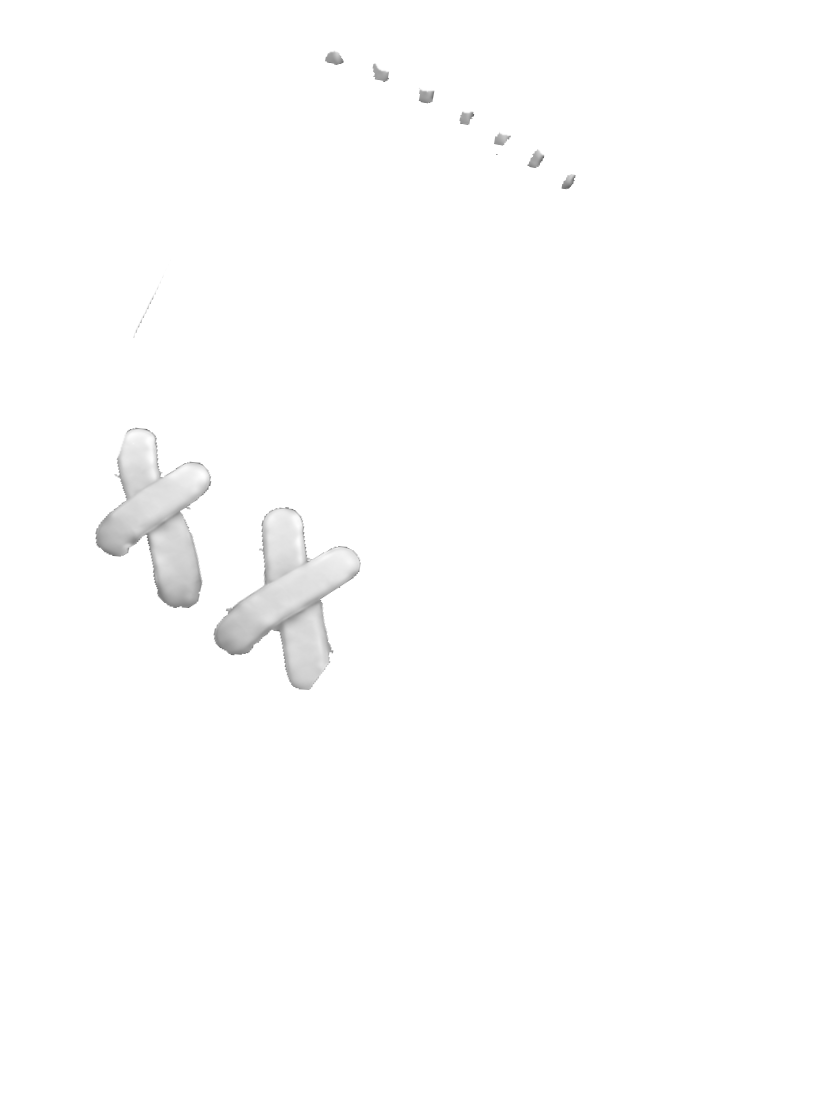
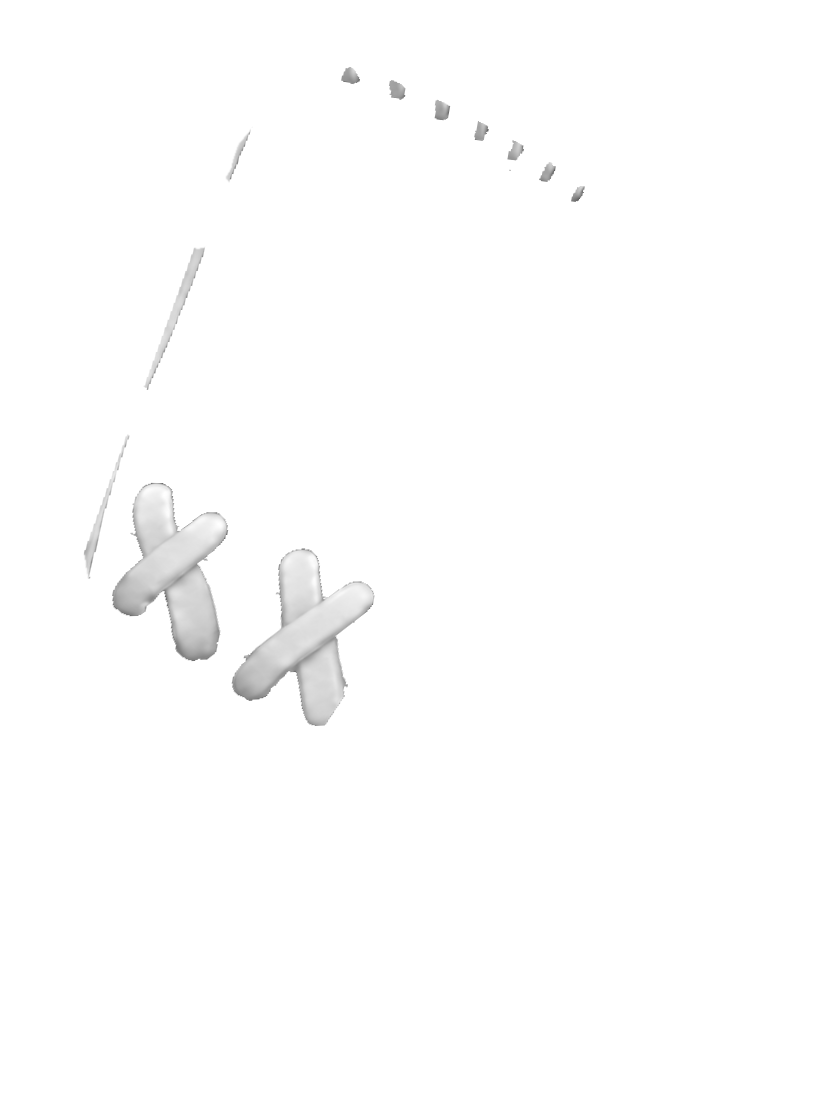
Thumb-side webs sit in their place, without the H-web's leftovers
Scott: Em Rocket and Standard I did not sit right from the thumb side.

- The mapping was fitted on the H-web's outline, which leaves out its open
  bays, a different bay on each side: every web came out shifted toward
  the index finger, cut off there and short of the thumb. It is now fitted
  on the web's whole place, windows and bays closed (overlap 0.68 -> 0.88).
- The H-web's strap ends through the thumb panel no longer float on other
  webs: they are left out and the panel is whole under them.
- The index finger's strip beside the web is one even band instead of the
  pieces the H-web's straps left of it.

Claude-Session: https://claude.ai/code/session_01LrwdtXa84bx1vtPD2tbGHV

diff --git a/glove_builder/customiser/glove-engine.js b/glove_builder/customiser/glove-engine.js
@@ -347,7 +347,7 @@ export function renderAssets(DATA, baseOnly = false) {
 function selectionAssets(DATA, web, snake, palmManifest) {
   const palm = palmManifest?.entries?.[web];
   return assetDependencies(DATA, [DATA.webs?.[web], DATA.webs?.[web] ? DATA.nativeBackTrace?.swapAssets : null,
-    DATA.thumbWebEstimates?.entries?.[web], ...(palm
+    DATA.thumbWebEstimates?.entries?.[web], DATA.thumbWebEstimates?.entries?.[web] ? DATA.thumbWebEstimates.hWebTies : null, ...(palm
     ? [palm, palmManifest.footprint, palmManifest.protected] : [])], snake ? ['_snakeLeather'] : []);
 }
 // Build-time hashes change cache keys without changing metadata or image bytes.
@@ -882,7 +882,8 @@ export class GloveRenderer {
   webEstimate() {
     const D = this.DATA, entry = D.webBlank && this.web ? D.thumbWebEstimates?.entries?.[this.web] : null;
     if (!entry || !entry.leather) return null;
-    return Object.values(entry).every(id => this.imgs[id] && D.bbox[id]) ? entry : null;
+    const ties = D.thumbWebEstimates.hWebTies;
+    return [...Object.values(entry), ties.mask, ...Object.values(ties.heal)].every(id => this.imgs[id] && D.bbox[id]) ? entry : null;
   }
 
   // A layer without what lies inside a mask. Kept per layer and mask.
@@ -1043,7 +1044,7 @@ export class GloveRenderer {
       }
       const tex=this.leatherGrain(snake,zone?.group==='lace');
       const lace=zone?.group==='lace';
-      const tracedLeather=!!this.DATA.tracedSeams && zone?.group==='leather' && role!=='lining' && id===role;
+      const tracedLeather=!!this.DATA.tracedSeams && zone?.group==='leather' && role!=='lining' && (id===role || id.startsWith('thumb_estimate_heal_'));
       const strength=snake?17:(tracedLeather && !response?.grainStrength ? TRACED_LEATHER_GRAIN
         : response?.grainStrength ?? (lace?2.2:8.5));
       // The material coordinates are separable: wrap each row/column once,
@@ -1814,6 +1815,12 @@ export class GloveRenderer {
       // lacing and thread that belong to the web go with it
       // with an estimated web the lacing that ties a web in stays; the H-web's own thread does not
       if (D.webBlank && (z.id === 'stitching' || z.id === 'laces' && !this.webEstimate())) tinted = this.outside(tinted, D.webBlank.reach);
+      // the H-web's strap ends through the thumb panel go too, and the panel is whole under them
+      else if (D.webBlank && z.id === 'laces') {
+        const ties = D.thumbWebEstimates.hWebTies;
+        tinted = this.outside(tinted, this.imgs[ties.mask]);
+        for (const [zone, id] of Object.entries(ties.heal)) { const heal = this.tinted(id, this.hex(zone, state), zone, zone); ctx.drawImage(heal, heal._ox, heal._oy); }
+      }
       let c = onPad(swap && z.id === 'stitching' ? this.outsideWeb(tinted) : tinted, z.id);
       if (z.id === 'stitching' && D.thumbBadgeThread) {
         const original=c;c=document.createElement('canvas');c.width=original.width;c.height=original.height;
@@ -2156,6 +2163,7 @@ export class GloveRenderer {
       let c = this.tinted(mirror && highlight.id==='embroidery' && D.embroideryLHT ? D.embroideryLHT : highlight.id, '#ffffff',highlight.id);
       // the web's own lacing and thread are not on this side to light up
       if (D.webBlank && (highlight.id === 'stitching' || highlight.id === 'laces' && !this.webEstimate())) c = this.outside(c, D.webBlank.reach);
+      else if (D.webBlank && highlight.id === 'laces') c = this.outside(c, this.imgs[D.thumbWebEstimates.hWebTies.mask]);
       // Selection must cover restored leather under the original lettering,
       // while the relocated embroidered artwork keeps its own ownership.
       if(mirror && D.leftyRingHeals?.[highlight.id]){
@@ -2598,20 +2606,23 @@ export class GloveRenderer {
         if (!reach) { reach = D.webBlank.reach.getContext('2d').getImageData(0, 0, D.w, D.h).data; this.cache.set('hit|web-reach', reach); }
         if (reach[at * 4 + 3] >= 128) open = true;
       }
+      const covers = id => {
+        const key = 'hit|' + id;
+        let cover = this.cache.get(key);
+        if (!cover) {
+          const c = document.createElement('canvas'); c.width = D.w; c.height = D.h;
+          const g = c.getContext('2d', { willReadFrequently: true }); g.drawImage(this.imgs[id], 0, 0);
+          const px = g.getImageData(0, 0, D.w, D.h).data; cover = new Uint8Array(D.w * D.h);
+          for (let i = 0; i < cover.length; i++) cover[i] = px[i * 4 + 3];
+          this.cache.set(key, cover);
+        }
+        return cover[at] >= 128;
+      };
+      if (id === 'laces' && this.webEstimate()) for (const [zone, heal] of Object.entries(D.thumbWebEstimates.hWebTies.heal)) if (covers(heal)) return zone;
       if (open) {
         const estimate = this.webEstimate();
         if (estimate) for (const [part, zone] of ESTIMATE_PARTS) {
-          if (!estimate[part]) continue;
-          const key = 'hit|' + estimate[part];
-          let cover = this.cache.get(key);
-          if (!cover) {
-            const c = document.createElement('canvas'); c.width = D.w; c.height = D.h;
-            const g = c.getContext('2d', { willReadFrequently: true }); g.drawImage(this.imgs[estimate[part]], 0, 0);
-            const px = g.getImageData(0, 0, D.w, D.h).data; cover = new Uint8Array(D.w * D.h);
-            for (let i = 0; i < cover.length; i++) cover[i] = px[i * 4 + 3];
-            this.cache.set(key, cover);
-          }
-          if (cover[at] >= 128) return zone;
+          if (estimate[part] && covers(estimate[part])) return zone;
         }
         return null;
       }

diff --git a/scripts/derive_thumb_web_estimates.py b/scripts/derive_thumb_web_estimates.py
@@ -7,8 +7,8 @@ face: the same straps, lacing and thread, mirrored.
 
 So each web's palm layers are carried over to the thumb side by one plane
 mapping. The mapping is fitted once, on the web that exists on both sides:
-it lays the traced palm H-web, windows closed, over the traced thumb H-web
-as well as a plane can. Leather the palm side could not see (it tucks behind
+it lays the place the traced H-web has on the palm side (windows and bays
+closed) over the place it has on the thumb side, as well as a plane can. Leather the palm side could not see (it tucks behind
 the thumb there) is carried on from the leather beside it, so the web meets
 the thumb; a real window stays a window. Everything is cut to the place the
 traced H-web has on the thumb side, and the engine draws it behind the
@@ -30,6 +30,10 @@ from PIL import Image
 ROOT = Path(__file__).resolve().parents[1]; APP = ROOT / 'glove_builder/customiser'
 OUT = APP / 'assets/thumb-web-estimate-r01'; REVISION = 'THUMB-WEB-ESTIMATE-R01'
 ROLES = ['leather', 'laces', 'stitching']
+TIE_AREA = 4500      # a lace piece smaller than this, beside the web, is a strap end of the H-web
+# How wide a notch the H-web may have cut in a panel and still be closed, and
+# the panel that shows only as a strip along the outline (the index finger's side).
+PANEL_REACH, STRIPS = 85, {'back3'}
 # the four H-web windows, palm side -> thumb side (window centres), to start the fit from
 START = ([[585, 330], [630, 579], [427, 417], [496, 672]], [[312, 286], [216, 497], [458, 366], [345, 576]])
 
@@ -63,9 +67,17 @@ def filled(mask):
     out = np.zeros_like(mask); cv2.drawContours(out, contours, -1, 1, -1); return out
 
 
-def fit(palm_web, thumb_web, size):
-    """Plane mapping that lays the palm web's outline over the thumb web's."""
-    source, target = filled(palm_web), filled(thumb_web) > 0
+def place_of(full, web):
+    """The place a web has on a side: the traced H-web with its windows and bays, as one shape."""
+    space = web.copy()
+    for window in windows(full, web): space[window] = 1
+    # the H-web's strap ends make steps along its free edge; another web has none
+    return cv2.morphologyEx(filled(space), cv2.MORPH_CLOSE, cv2.getStructuringElement(cv2.MORPH_ELLIPSE, (45, 45)))
+
+
+def fit(source, target, size):
+    """Plane mapping that lays the web's place on the palm side over its place on the thumb side."""
+    target = target > 0
     def miss(h):
         w = cv2.warpPerspective(source * 255, np.append(h, 1).reshape(3, 3), size, flags=cv2.INTER_LINEAR) > 127
         return 1 - (w & target).sum() / max(1, (w | target).sum())
@@ -101,16 +113,11 @@ def main():
     stored = thumb.get('thumbWebEstimates') or {}
     if args.fit or not stored.get('mapping'):
         if args.check: sys.exit('stale: no stored mapping')
-        mapping, overlap = fit(palm_web, thumb_web, size)
+        mapping, overlap = fit(place_of(palm_full, palm_web), place_of(thumb_full, thumb_web), size)
     else: mapping, overlap = stored['mapping'], stored.get('outlineOverlap')
     H = np.append(np.array(mapping, np.float64), 1).reshape(3, 3)
 
-    # the place a web has on the thumb side: the traced web with its windows and bays
-    space = thumb_web.copy()
-    for window in windows(thumb_full, thumb_web): space[window] = 1
-    place = filled(space)
-    # the H-web's strap ends make steps along its free edge; another web has none
-    place = cv2.morphologyEx(place, cv2.MORPH_CLOSE, cv2.getStructuringElement(cv2.MORPH_ELLIPSE, (45, 45)))
+    place = place_of(thumb_full, thumb_web)
     # It may run on under the fingers and thumb, which are drawn over it; where
     # its place meets the page, the place's own traced edge is the outline.
     covered = (thumb_full > 0) & (thumb_web == 0)
@@ -121,6 +128,20 @@ def main():
     hidden = cv2.warpPerspective((((palm_full > 0) & (palm_web == 0)) * 255).astype(np.uint8), H, size) > 127
 
     entries, assets, boxes, stale = {}, {}, {}, []
+    def put(key, name, rgba):
+        """Write (or, with --check, compare) one layer and register it."""
+        rgba[rgba[:, :, 3] == 0] = 0
+        rel = OUT.relative_to(APP) / name; box = list(Image.fromarray(rgba[:, :, 3]).getbbox())
+        assets[key] = str(rel); boxes[key] = box
+        if args.check:
+            path = APP / rel; got = np.array(Image.open(path).convert('RGBA')) if path.exists() else None
+            same = got is not None and np.array_equal(got[:, :, 3], rgba[:, :, 3]) and np.array_equal(got[rgba[:, :, 3] > 0], rgba[rgba[:, :, 3] > 0])
+            if not same: stale.append(str(rel))
+            if thumb['assets'].get(key) != str(rel) or thumb['bbox'].get(key) != box: stale.append(key)
+            return
+        OUT.mkdir(parents=True, exist_ok=True)
+        Image.fromarray(rgba).save(APP / rel, lossless=True, method=6)
+
     for slug, entry in palm['palmWebs']['entries'].items():
         parts = {role: entry['parts'][role]['asset'] for role in ROLES}
         if entry.get('palmSupport'): parts['support'] = entry['palmSupport']['asset']
@@ -138,23 +159,65 @@ def main():
             smooth = cv2.GaussianBlur(rgb, (0, 0), 3); rgb[my, mx] = smooth[my, mx]
         entries[slug] = {}
         for role, (rgb, a) in layers.items():
-            a = a * np.clip(envelope, 0, 1)
-            rgba = (np.dstack([np.clip(rgb, 0, 1), a]) * 255 + .5).astype(np.uint8)
-            rgba[rgba[:, :, 3] == 0] = 0
+            rgba = (np.dstack([np.clip(rgb, 0, 1), a * np.clip(envelope, 0, 1)]) * 255 + .5).astype(np.uint8)
             if not rgba[:, :, 3].any(): continue
-            key = f"thumb_estimate_{slug.replace('-', '_')}_{role}"; rel = OUT.relative_to(APP) / f'{slug}-{role}.webp'
-            box = list(Image.fromarray(rgba[:, :, 3]).getbbox())
-            entries[slug][role] = key; assets[key] = str(rel); boxes[key] = box
-            if args.check:
-                path = APP / rel; got = np.array(Image.open(path).convert('RGBA')) if path.exists() else None
-                same = got is not None and np.array_equal(got[:, :, 3], rgba[:, :, 3]) and np.array_equal(got[rgba[:, :, 3] > 0], rgba[rgba[:, :, 3] > 0])
-                if not same: stale.append(str(rel))
-                if thumb['assets'].get(key) != str(rel) or thumb['bbox'].get(key) != box: stale.append(key)
-                continue
-            OUT.mkdir(parents=True, exist_ok=True)
-            Image.fromarray(rgba).save(APP / rel, lossless=True, method=6)
+            key = f"thumb_estimate_{slug.replace('-', '_')}_{role}"
+            entries[slug][role] = key; put(key, f'{slug}-{role}.webp', rgba)
+
+    # The H-web's straps are tied off through the thumb panel: short lace ends
+    # beside the web that no other web has. They are named here so the engine
+    # can leave them out, and the panel they pierce is made whole under them
+    # (Scott traced the panels round the lace, not under it): each pixel takes
+    # the nearest panel and that panel's own light.
+    trace = thumb['nativeHContour']
+    laces = (alpha(thumb, trace, 'laces') > 127).astype(np.uint8)
+    n, lab, stats, _ = cv2.connectedComponentsWithStats(laces, connectivity=8)
+    beside = cv2.dilate(place, cv2.getStructuringElement(cv2.MORPH_ELLIPSE, (51, 51))) > 0
+    ties = np.zeros_like(laces)
+    for i in range(1, n):
+        if stats[i, cv2.CC_STAT_AREA] < TIE_AREA and ((lab == i) & beside).any(): ties[lab == i] = 1
+    ties = cv2.dilate(ties, cv2.getStructuringElement(cv2.MORPH_ELLIPSE, (5, 5)))
+    mask = np.zeros(ties.shape + (4,), np.uint8); mask[ties > 0] = 255
+    tie_block = {'mask': 'thumb_estimate_h_ties', 'heal': {}}; put(tie_block['mask'], 'h-ties.webp', mask)
+    panels = [z['id'] for z in trace['zones'] if z['group'] == 'leather' and z['id'] != 'web' and z['id'] in trace['assets']]
+    art = {z: np.array(Image.open(APP / thumb['assets'][trace['assets'][z]]).convert('RGBA')) for z in panels}
+    owner = np.zeros(ties.shape, np.int32)
+    for i, z in enumerate(panels): owner[(art[z][:, :, 3] > 127) & (owner == 0)] = i + 1
+    _, lab = cv2.distanceTransformWithLabels((owner == 0).astype(np.uint8), cv2.DIST_L2, 5, labelType=cv2.DIST_LABEL_PIXEL)
+    ys, xs = np.nonzero(owner); nearest = np.zeros((lab.max() + 1, 2), np.int32); nearest[lab[ys, xs]] = np.stack([ys, xs], 1)
+    # Only as far as each panel's own edge runs once the notches the H-web cut
+    # in it are closed: where its strap ends pierce the thumb panel, and where
+    # its straps cross the strip of the index finger. Past that edge lies the
+    # web, and the web is drawn there. Nothing the H-web did not cover is touched.
+    freed = ((ties > 0) | (thumb_web > 0)) & (owner == 0)
+    claim = np.zeros(ties.shape, np.int32)
+    depth = cv2.distanceTransform(thumb_full, cv2.DIST_L2, 5)        # how far inside the glove's outline
+    for i, z in enumerate(panels):
+        mine = (owner == i + 1).astype(np.uint8)
+        whole = cv2.morphologyEx(mine, cv2.MORPH_CLOSE, cv2.getStructuringElement(cv2.MORPH_ELLIPSE, (PANEL_REACH, PANEL_REACH))) > 0
+        if z in STRIPS and mine.any():
+            # A strip along the outline that the H-web's straps lap over: it is
+            # as deep everywhere as where no strap covers it, along its own length.
+            hull = np.zeros_like(mine); cv2.fillConvexPoly(hull, cv2.convexHull(cv2.findNonZero(mine)), 1)
+            band = (hull > 0) & (depth <= np.percentile(depth[mine > 0], 90))
+            whole |= band; freed = freed | (band & (owner == 0) & (thumb_full > 0))    # thread and lace ends on it too
+        claim[whole & freed & (claim == 0)] = i + 1
+    ty, tx = np.nonzero(claim); sy, sx = nearest[lab[ty, tx]].T
+    for i, z in enumerate(panels):
+        mine = claim[ty, tx] == i + 1
+        if mine.any():      # the light of this panel itself, not of a nearer neighbour
+            _, own = cv2.distanceTransformWithLabels((owner != i + 1).astype(np.uint8), cv2.DIST_L2, 5, labelType=cv2.DIST_LABEL_PIXEL)
+            py, px = np.nonzero(owner == i + 1); near = np.zeros((own.max() + 1, 2), np.int32); near[own[py, px]] = np.stack([py, px], 1)
+            sy[mine], sx[mine] = near[own[ty[mine], tx[mine]]].T
+        if not mine.any(): continue
+        rgba = np.zeros(ties.shape + (4,), np.uint8)
+        rgba[ty[mine], tx[mine], :3] = art[z][sy[mine], sx[mine], :3]; rgba[ty[mine], tx[mine], 3] = 255
+        tone = cv2.GaussianBlur(rgba[:, :, :3].astype(np.float32) * (rgba[:, :, 3:4] > 0), (0, 0), 4)
+        cover = cv2.GaussianBlur((rgba[:, :, 3] > 0).astype(np.float32), (0, 0), 4)
+        rgba[ty[mine], tx[mine], :3] = np.clip(tone[ty[mine], tx[mine]] / np.maximum(cover[ty[mine], tx[mine], None], 1e-3) + .5, 0, 255).astype(np.uint8)
+        tie_block['heal'][z] = f'thumb_estimate_heal_{z}'; put(tie_block['heal'][z], f'heal-{z}.webp', rgba)
     block = {'revision': REVISION, 'label': 'estimated', 'source': 'palmWebs (PALM-P3), carried to the thumb side by one plane mapping',
-             'mapping': mapping, 'outlineOverlap': overlap, 'entries': entries}
+             'mapping': mapping, 'outlineOverlap': overlap, 'hWebTies': tie_block, 'entries': entries}
     if args.check:
         if stored != block: stale.append('thumbWebEstimates')
         if stale: sys.exit('stale: ' + ', '.join(stale))

diff --git a/scripts/test_thumb_web_estimates.py b/scripts/test_thumb_web_estimates.py
@@ -17,6 +17,11 @@ class ThumbWebEstimates(unittest.TestCase):
             self.assertIn('leather', entry, slug)   # a closed web may carry no lacing of its own
             for key in entry.values():
                 self.assertTrue((APP / self.thumb['assets'][key]).exists(), key); self.assertEqual(len(self.thumb['bbox'][key]), 4)
+    def test_the_h_webs_own_ties_are_named_and_the_panels_healed(self):
+        ties = self.block['hWebTies']
+        self.assertTrue((APP / self.thumb['assets'][ties['mask']]).exists())
+        self.assertTrue({'back2', 'back3'} <= set(ties['heal']))       # the thumb panel and the index finger's strip
+        for key in ties['heal'].values(): self.assertTrue((APP / self.thumb['assets'][key]).exists(), key)
     def test_the_engine_draws_it_behind_the_glove_and_the_app_says_estimate(self):
         engine = (APP / 'glove-engine.js').read_text(); app = (APP / 'app.js').read_text()
         self.assertIn("DATA.thumbWebEstimates?.entries?.[web]", engine)          # loaded with the chosen web only
